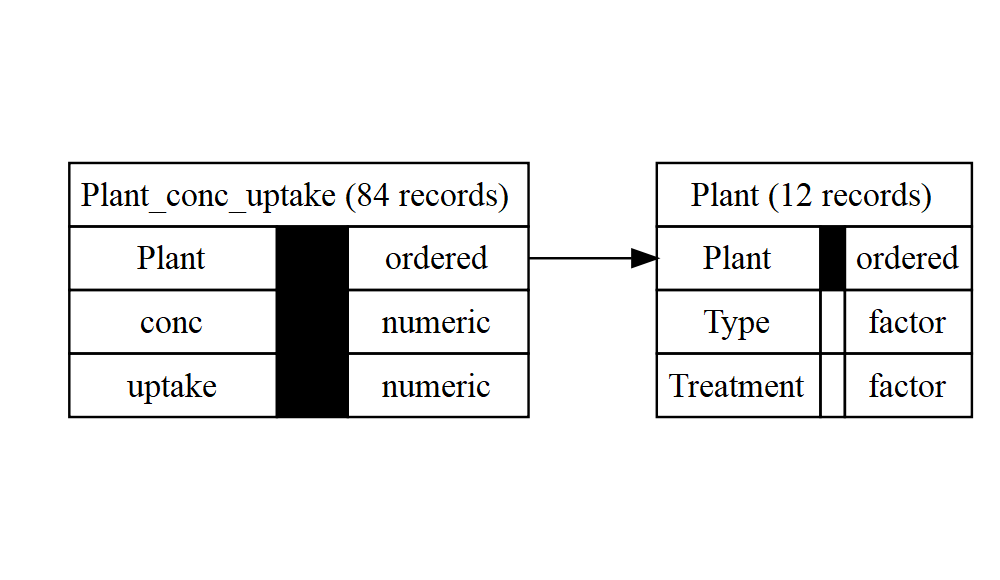
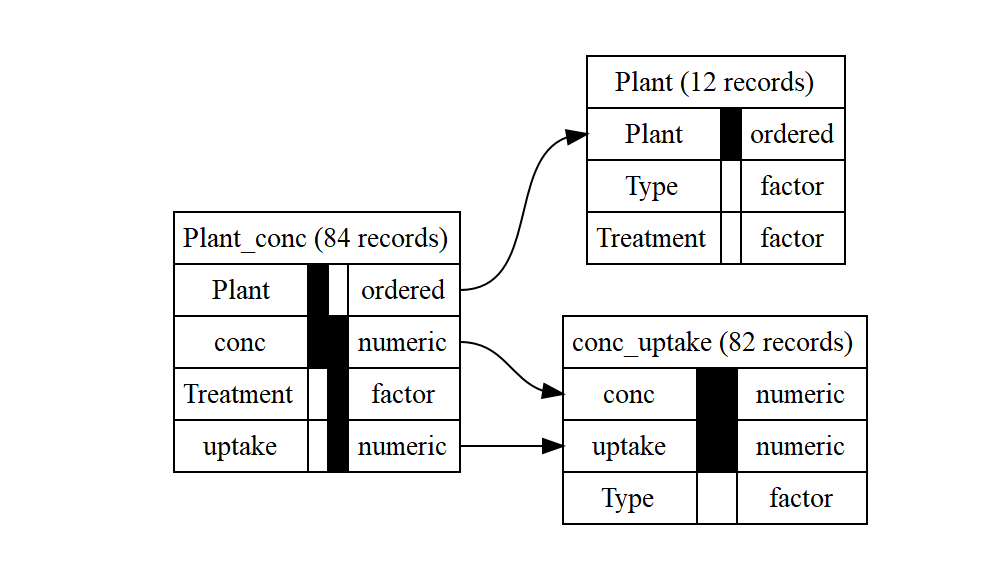
Add no-exclude diagram to README, and fix exclusion example

Changed region(s): [[0.062, 0.1862, 0.992, 0.931], [0.589, 0.0931, 0.837, 0.1862], [0.558, 0.2172, 0.589, 0.2483]]

diff --git a/README.md b/README.md
@@ -51,8 +51,8 @@ DiagrammeR::grViz(graphviz_text)
 
 <img src="man/figures/README-example-1.png" width="100%" />
 
-Using the `exclude_class` argument to forbid numeric variables from
-appearing in keys:
+Using the `exclude` argument to forbid certain variables from appearing
+in keys:
 
 ``` r
 summary(CO2)
@@ -78,21 +78,28 @@ db2_noexclude
 #> references:
 #> Plant_conc.{Plant} -> Plant.{Plant}
 #> Plant_conc.{conc, uptake} -> conc_uptake.{conc, uptake}
-db2 <- autodb(CO2, name = "CO2", exclude_class = "numeric")
+graphviz_text2_noexclude <- gv(db2_noexclude)
+DiagrammeR::grViz(graphviz_text2_noexclude)
+```
+
+<img src="man/figures/README-exclude_example-1.png" width="100%" />
+
+``` r
+db2 <- autodb(CO2, name = "CO2", exclude = "uptake")
 db2
 #> database CO2 with 2 relations
 #> 5 attributes: Plant, Type, Treatment, conc, uptake
 #> relation Plant: Plant, Type, Treatment; 12 records
 #>   key 1: Plant
-#> relation Plant_conc_uptake: Plant, conc, uptake; 84 records
-#>   key 1: Plant, conc, uptake
+#> relation Plant_conc: Plant, conc, uptake; 84 records
+#>   key 1: Plant, conc
 #> references:
-#> Plant_conc_uptake.{Plant} -> Plant.{Plant}
+#> Plant_conc.{Plant} -> Plant.{Plant}
 graphviz_text2 <- gv(db2)
 DiagrammeR::grViz(graphviz_text2)
 ```
 
-<img src="man/figures/README-exclude_example-1.png" width="100%" />
+<img src="man/figures/README-exclude_example-2.png" width="100%" />
 
 There are also functions for doing each step of the database creation
 separately, including functional dependency detection and normalisation.
